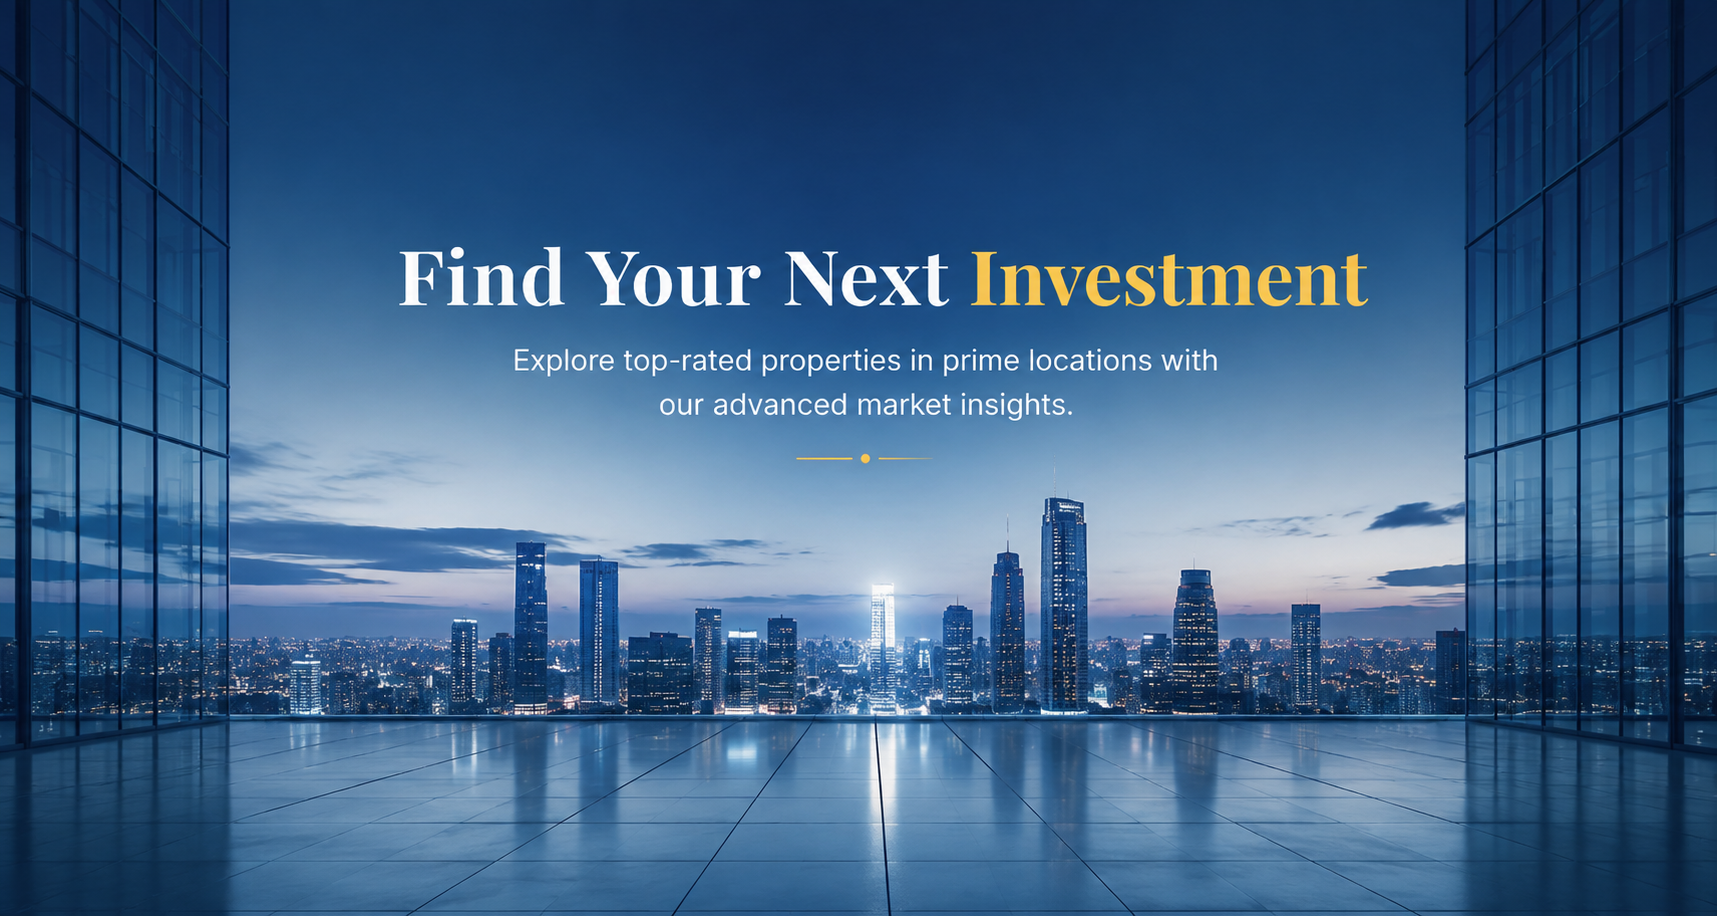
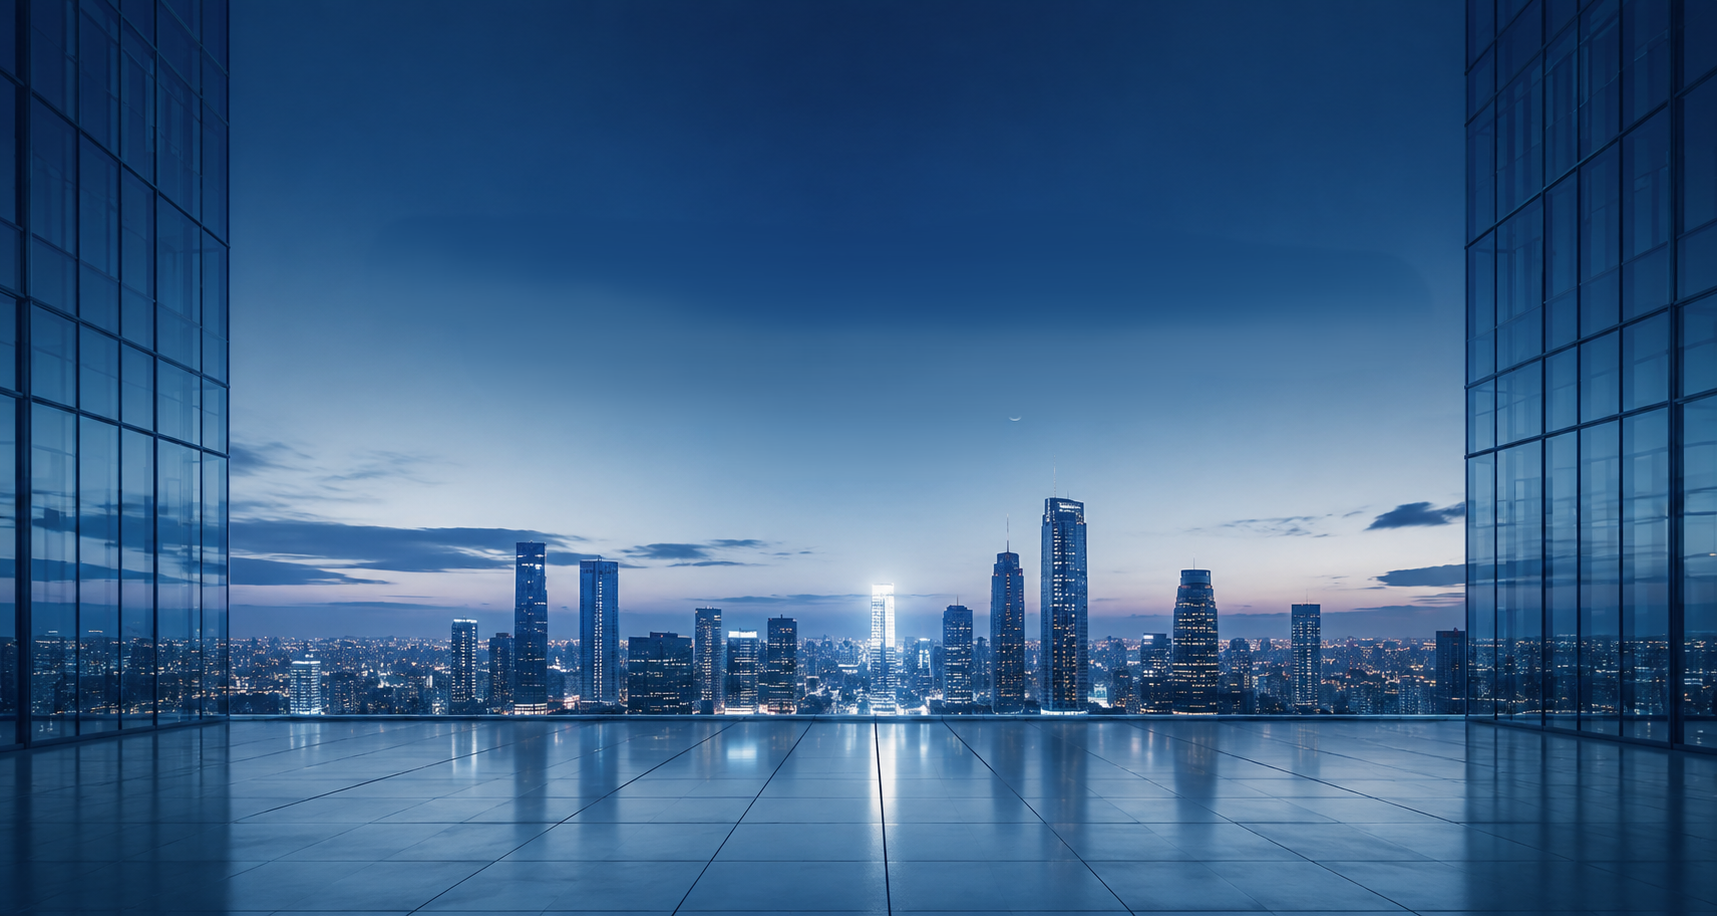
fixed mobile hero ui responsiveness

Changed region(s): [[0.2161, 0.2751, 0.8026, 0.3362], [0.3087, 0.3668, 0.71, 0.4585], [0.463, 0.4891, 0.5248, 0.5197]]

diff --git a/src/components/Hero.jsx b/src/components/Hero.jsx
@@ -7,12 +7,12 @@ export default function Hero() {
   const [activeTab, setActiveTab] = useState('Buy')
 
   return (
-    <section id="home" className="relative overflow-hidden min-h-[560px] md:min-h-[640px] flex flex-col justify-end bg-navy">
-      {/* Background Image - Smooth Ken Burns Slow Zoom */}
+    <section id="home" className="relative overflow-hidden min-h-[600px] md:min-h-[640px] flex flex-col items-center justify-start gap-4 pt-8 md:pt-14 pb-8 md:pb-12 bg-navy">
+      {/* Background Image */}
       <img
         src="/hero-bg.png"
         alt="Al Madina Real Estate"
-        className="absolute inset-0 w-full h-full object-cover object-top animate-slow-zoom origin-top"
+        className="absolute inset-0 w-full h-full object-cover object-center animate-slow-zoom origin-center"
         onError={(e) => {
           if (!e.currentTarget.src.endsWith('.jpeg')) {
             e.currentTarget.src = '/hero-bg.jpeg'
@@ -22,20 +22,28 @@ export default function Hero() {
         }}
       />
 
-      {/* Top spacing area to push the widget down and show house & logo */}
-      <div className="relative pt-48 sm:pt-64 md:pt-72" />
+      {/* 1. Text Stacking & Typography */}
+      <div className="relative z-10 text-center max-w-3xl mx-auto px-4 drop-shadow-md">
+        <h1 className="font-heading font-semibold text-white text-2xl sm:text-4xl md:text-5xl leading-tight">
+          Find Your Next <span className="text-gold">Investment</span>
+        </h1>
+        <p className="text-gray-100 text-xs sm:text-base mt-2 mb-4 px-2 max-w-xl mx-auto drop-shadow-sm font-medium">
+          Explore top-rated properties in prime locations with our advanced market insights.
+        </p>
+      </div>
 
-      {/* Search widget — Transparent Glassmorphic Design */}
-      <div className="relative max-w-3xl mx-auto px-4 pb-4 md:pb-6 w-full animate-fade-in-up">
+      {/* 2. Responsive Search Card */}
+      <div className="relative z-10 w-full max-w-4xl mx-auto px-4 animate-fade-in-up">
         <div className="rounded-2xl shadow-2xl overflow-hidden border-2 border-white/40 hover:border-gold/60 backdrop-blur-xl transition-all duration-300 hover:shadow-2xl hover:shadow-gold/20 ring-1 ring-black/20">
-          {/* Top: tabs + city/location/find on translucent dark glass */}
-          <div className="bg-navy-dark/75 backdrop-blur-lg px-5 pt-4 pb-5">
+          
+          {/* Top Tier: Tabs + City/Location/FIND */}
+          <div className="bg-navy-dark/80 backdrop-blur-lg px-4 sm:px-6 pt-4 pb-5">
             <div className="flex gap-1.5 mb-4">
               {tabs.map((tab) => (
                 <button
                   key={tab}
                   onClick={() => setActiveTab(tab)}
-                  className={`px-5 py-1.5 rounded-md text-sm font-semibold transition-all duration-200 active:scale-95 ${
+                  className={`px-4 sm:px-5 py-1.5 rounded-md text-xs sm:text-sm font-semibold transition-all duration-200 active:scale-95 ${
                     activeTab === tab
                       ? 'bg-gold text-navy-dark shadow-md scale-105'
                       : 'text-gray-200 hover:text-white hover:bg-white/10'
@@ -46,27 +54,34 @@ export default function Hero() {
               ))}
             </div>
 
-            <div className="grid grid-cols-1 md:grid-cols-4 gap-3 items-end">
+            <div className="grid grid-cols-1 sm:grid-cols-2 md:grid-cols-4 gap-3 items-end">
               <div>
                 <label className="text-[10px] tracking-wide text-gold uppercase font-semibold">City</label>
-                <div className="mt-1 flex items-center gap-1.5 bg-navy/60 backdrop-blur-md border border-white/20 rounded-lg px-3 py-2.5 transition-all focus-within:border-gold focus-within:ring-2 focus-within:ring-gold/30">
-                  <svg className="w-3.5 h-3.5 text-gold shrink-0" fill="none" viewBox="0 0 24 24" stroke="currentColor"><path strokeLinecap="round" strokeLinejoin="round" strokeWidth={2} d="M17.657 16.657L13.414 20.9a2 2 0 01-2.828 0l-4.243-4.243a8 8 0 1111.314 0z" /><path strokeLinecap="round" strokeLinejoin="round" strokeWidth={2} d="M15 11a3 3 0 11-6 0 3 3 0 016 0z" /></svg>
-                  <select className="bg-transparent text-sm text-white w-full outline-none cursor-pointer">
+                <div className="mt-1 flex items-center gap-1.5 bg-navy/60 backdrop-blur-md border border-white/20 rounded-lg px-3 py-2.5 transition-all focus-within:border-gold focus-within:ring-2 focus-within:ring-gold/30 w-full">
+                  <svg className="w-3.5 h-3.5 text-gold shrink-0" fill="none" viewBox="0 0 24 24" stroke="currentColor">
+                    <path strokeLinecap="round" strokeLinejoin="round" strokeWidth={2} d="M17.657 16.657L13.414 20.9a2 2 0 01-2.828 0l-4.243-4.243a8 8 0 1111.314 0z" />
+                    <path strokeLinecap="round" strokeLinejoin="round" strokeWidth={2} d="M15 11a3 3 0 11-6 0 3 3 0 016 0z" />
+                  </svg>
+                  <select className="bg-transparent text-xs sm:text-sm text-white w-full outline-none cursor-pointer">
                     <option className="text-black">Faisalabad</option>
                   </select>
                 </div>
               </div>
-              <div className="md:col-span-2">
+
+              <div className="sm:col-span-1 md:col-span-2">
                 <label className="text-[10px] tracking-wide text-gold uppercase font-semibold">Location</label>
-                <div className="mt-1 flex items-center gap-1.5 bg-navy/60 backdrop-blur-md border border-white/20 rounded-lg px-3 py-2.5 transition-all focus-within:border-gold focus-within:ring-2 focus-within:ring-gold/30">
-                  <svg className="w-3.5 h-3.5 text-gold shrink-0" fill="none" viewBox="0 0 24 24" stroke="currentColor"><path strokeLinecap="round" strokeLinejoin="round" strokeWidth={2} d="M21 21l-4.35-4.35M17 10a7 7 0 11-14 0 7 7 0 0114 0z" /></svg>
+                <div className="mt-1 flex items-center gap-1.5 bg-navy/60 backdrop-blur-md border border-white/20 rounded-lg px-3 py-2.5 transition-all focus-within:border-gold focus-within:ring-2 focus-within:ring-gold/30 w-full">
+                  <svg className="w-3.5 h-3.5 text-gold shrink-0" fill="none" viewBox="0 0 24 24" stroke="currentColor">
+                    <path strokeLinecap="round" strokeLinejoin="round" strokeWidth={2} d="M21 21l-4.35-4.35M17 10a7 7 0 11-14 0 7 7 0 0114 0z" />
+                  </svg>
                   <input
                     placeholder="Garden West, Fowara Chowk..."
-                    className="bg-transparent outline-none text-sm text-white placeholder:text-gray-300 w-full"
+                    className="bg-transparent outline-none text-xs sm:text-sm text-white placeholder:text-gray-300 w-full"
                   />
                 </div>
               </div>
-              <button className="group bg-brandgreen text-white font-semibold rounded-lg px-4 py-2.5 text-sm hover:bg-brandgreen-dark transition-all duration-200 hover:scale-105 active:scale-95 shadow-md hover:shadow-brandgreen/30 flex items-center justify-center gap-2 cursor-pointer">
+
+              <button className="w-full group bg-brandgreen text-white font-semibold rounded-lg px-4 py-2.5 text-xs sm:text-sm hover:bg-brandgreen-dark transition-all duration-200 hover:scale-[1.02] active:scale-95 shadow-md hover:shadow-brandgreen/30 flex items-center justify-center gap-2 cursor-pointer">
                 <svg className="w-4 h-4 transition-transform group-hover:rotate-12 duration-200" fill="none" viewBox="0 0 24 24" stroke="currentColor">
                   <path strokeLinecap="round" strokeLinejoin="round" strokeWidth={2} d="M21 21l-4.35-4.35M17 10a7 7 0 11-14 0 7 7 0 0114 0z" />
                 </svg>
@@ -75,12 +90,14 @@ export default function Hero() {
             </div>
           </div>
 
-          {/* Bottom: translucent frosted glass filter strip */}
-          <div className="bg-white/80 backdrop-blur-lg px-4 sm:px-5 py-3 sm:py-4 border-t border-white/20">
-            <div className="grid grid-cols-2 sm:grid-cols-4 gap-3 sm:gap-4 sm:divide-x sm:divide-gray-200">
+          {/* Bottom Tier: Light Filter Strip */}
+          <div className="bg-white/85 backdrop-blur-lg px-4 sm:px-6 py-3 sm:py-4 border-t border-white/20">
+            <div className="grid grid-cols-1 sm:grid-cols-2 md:grid-cols-4 gap-3 sm:gap-4 md:divide-x md:divide-gray-200">
               <div className="hover:bg-white/40 p-1.5 rounded-md transition-colors">
                 <p className="text-[10px] tracking-wide text-gray-500 uppercase font-semibold flex items-center gap-1">
-                  <svg className="w-3 h-3 text-gold" fill="currentColor" viewBox="0 0 20 20"><path d="M10 2l7 6v10H3V8l7-6z" /></svg>
+                  <svg className="w-3 h-3 text-gold" fill="currentColor" viewBox="0 0 20 20">
+                    <path d="M10 2l7 6v10H3V8l7-6z" />
+                  </svg>
                   Property Type
                 </p>
                 <select className="mt-1 text-xs sm:text-sm text-navy font-semibold w-full outline-none bg-transparent cursor-pointer">
@@ -91,7 +108,8 @@ export default function Hero() {
                   <option>Shop</option>
                 </select>
               </div>
-              <div className="sm:pl-4 hover:bg-white/40 p-1.5 rounded-md transition-colors">
+
+              <div className="md:pl-4 hover:bg-white/40 p-1.5 rounded-md transition-colors">
                 <p className="text-[10px] tracking-wide text-gray-500 uppercase font-semibold">Price (PKR)</p>
                 <select className="mt-1 text-xs sm:text-sm text-navy font-semibold w-full outline-none bg-transparent cursor-pointer">
                   <option>Any</option>
@@ -100,7 +118,8 @@ export default function Hero() {
                   <option>1 Crore+</option>
                 </select>
               </div>
-              <div className="sm:pl-4 hover:bg-white/40 p-1.5 rounded-md transition-colors">
+
+              <div className="md:pl-4 hover:bg-white/40 p-1.5 rounded-md transition-colors">
                 <p className="text-[10px] tracking-wide text-gray-500 uppercase font-semibold">Area (Marla)</p>
                 <select className="mt-1 text-xs sm:text-sm text-navy font-semibold w-full outline-none bg-transparent cursor-pointer">
                   <option>Any</option>
@@ -109,7 +128,8 @@ export default function Hero() {
                   <option>10+ Marla</option>
                 </select>
               </div>
-              <div className="sm:pl-4 hover:bg-white/40 p-1.5 rounded-md transition-colors">
+
+              <div className="md:pl-4 hover:bg-white/40 p-1.5 rounded-md transition-colors">
                 <p className="text-[10px] tracking-wide text-gray-500 uppercase font-semibold">Beds</p>
                 <select className="mt-1 text-xs sm:text-sm text-navy font-semibold w-full outline-none bg-transparent cursor-pointer">
                   <option>All</option>
@@ -123,8 +143,9 @@ export default function Hero() {
           </div>
         </div>
 
+        {/* Popular Tags */}
         <div className="flex justify-center mt-3">
-          <div className="flex flex-wrap items-center gap-x-4 gap-y-1 bg-navy-dark/85 backdrop-blur-md px-4 py-1.5 rounded-full border border-white/15 text-xs text-gray-300 shadow-md">
+          <div className="flex flex-wrap items-center justify-center gap-x-4 gap-y-1 bg-navy-dark/85 backdrop-blur-md px-4 py-1.5 rounded-full border border-white/15 text-xs text-gray-300 shadow-md">
             <span className="text-gray-400 font-medium">Popular:</span>
             {hashtags.map((h) => (
               <a key={h} href="#properties" className="text-gold hover:text-white hover:underline transition-all duration-200">
